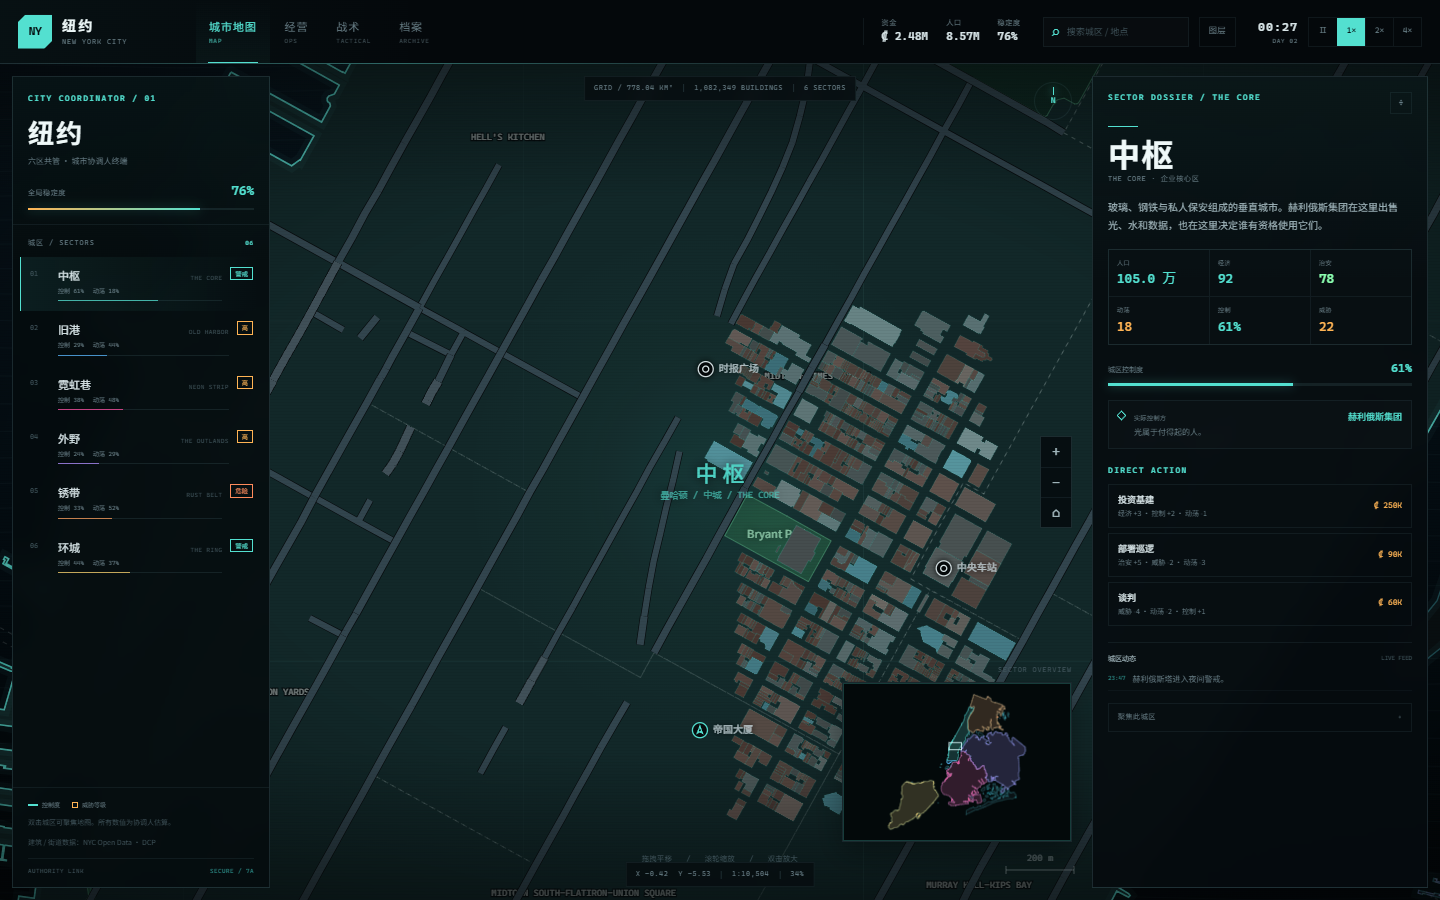
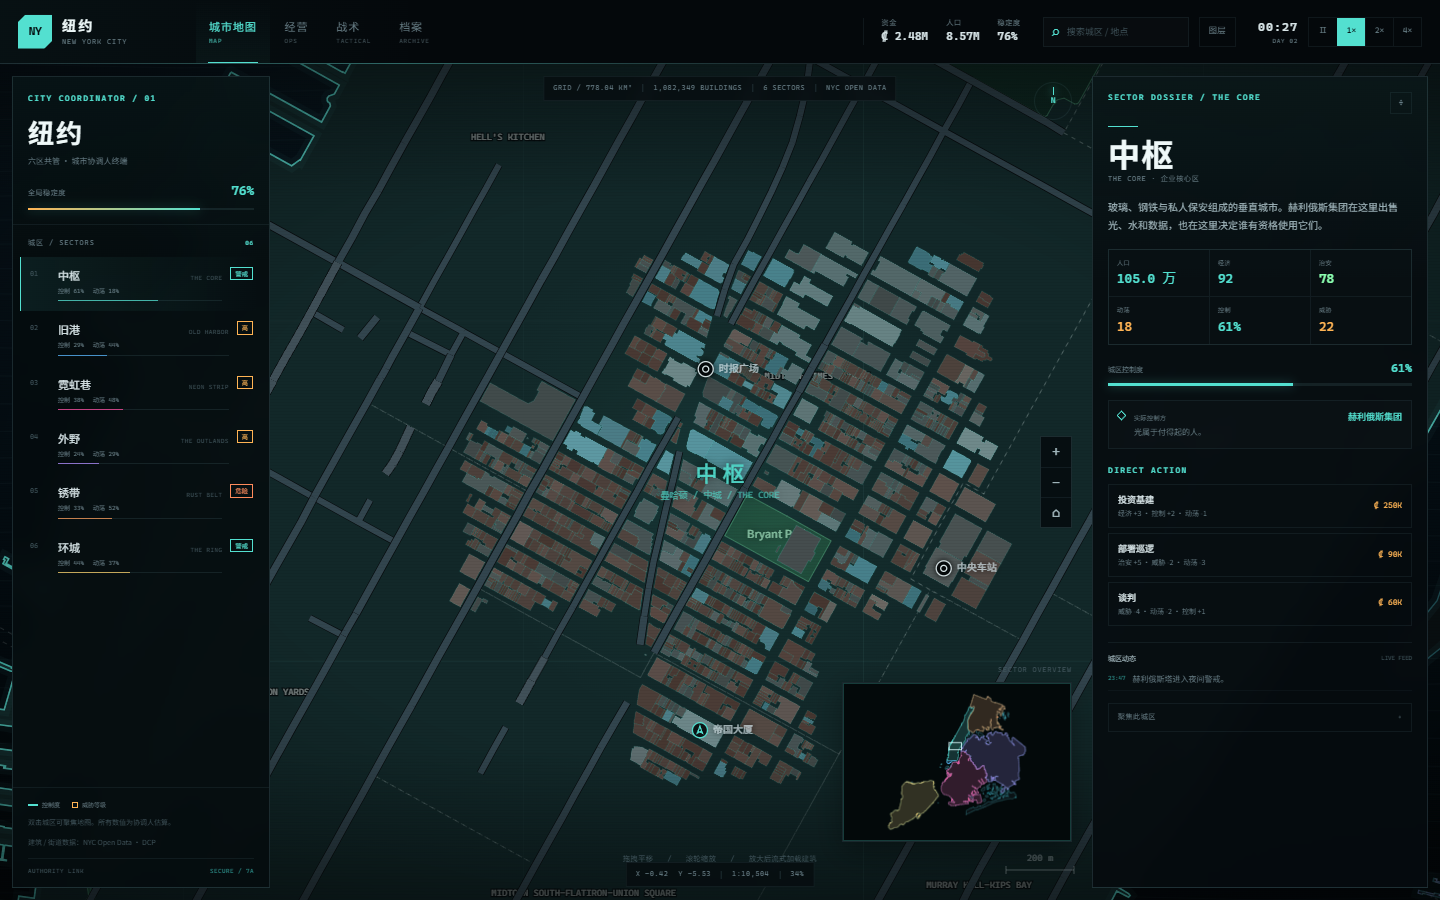
Upload final five-borough source

Changed region(s): [[0.3125, 0.2489, 0.7188, 0.9022], [0.5, 0.0933, 0.5625, 0.1244], [0.5938, 0.0933, 0.625, 0.1244]]

diff --git a/src/App.jsx b/src/App.jsx
@@ -401,7 +401,7 @@ export default function App() {
             <span className="boot-screen__mark">NY</span>
             <p className="hud-label">NEW YORK / URBAN OPERATIONS</p>
             <h1>纽约</h1>
-            <p>正在载入纽约开放数据 · {data.stats.buildings.toLocaleString('zh-CN')} 栋真实建筑</p>
+            <p>正在载入五区边界与社区数据 · {data.stats.buildings.toLocaleString('zh-CN')} 栋建筑按视口加载</p>
             <div className="boot-screen__bar"><i /></div>
             <div className="boot-screen__meta">
               <span>GRID {Math.round(WORLD.width / 100) / 10} × {Math.round(WORLD.height / 100) / 10} KM</span>

diff --git a/src/map/MapCanvas.jsx b/src/map/MapCanvas.jsx
@@ -243,7 +243,7 @@ const MapCanvas = forwardRef(function MapCanvas(
         }
       }
       candidates.sort((a, b) => a.distance - b.distance)
-      for (const candidate of candidates.slice(0, 5)) {
+      for (const candidate of candidates.slice(0, 8)) {
         streamRef.current.loading.add(candidate.key)
         fetchTile(candidate.tx, candidate.ty, controller.signal)
           .then((tile) => {
@@ -260,7 +260,7 @@ const MapCanvas = forwardRef(function MapCanvas(
       }
     }
 
-    const timer = window.setInterval(loadVisible, 500)
+    const timer = window.setInterval(loadVisible, 400)
     loadVisible()
     return () => {
       stopped = true

diff --git a/src/map/stream.js b/src/map/stream.js
@@ -2,7 +2,7 @@ import { WORLD } from '../data/city.js'
 import { normalizeStreamBuilding } from './generator.js'
 
 const BASE = 'https://a841-dotweb01.nyc.gov/arcgis/rest/services/GAZETTEER/NYCDOTBaseMap_Street/MapServer'
-export const TILE_SIZE = 700
+export const TILE_SIZE = 500
 
 export function tileKey(tx, ty) {
   return `${tx}:${ty}`

diff --git a/README.md b/README.md
@@ -20,7 +20,7 @@
 不再一次性加载整座城市的建筑：
 
 1. 五区边界、社区边界、主要道路、公园、地标先加载
-2. 地图缩放超过阈值后，按 **700m × 700m 瓦片**请求当前视口
+2. 地图缩放超过阈值后，按 **500m × 500m 瓦片**请求当前视口
 3. 每个瓦片同时拉取建筑轮廓和本地街道
 4. 内存缓存，最多保留 140 个瓦片
 5. 缩放/拖动时只补缺失瓦片，不重复请求
@@ -90,7 +90,7 @@ src/
 │  └─ nyc-district-meta.json
 ├─ map/
 │  ├─ generator.js         静态图层 + 建筑空间索引 + 流式建筑标准化
-│  ├─ stream.js            700m 瓦片请求与投影
+│  ├─ stream.js            500m 瓦片请求与投影
 │  ├─ renderer.js          Canvas 地图、真实多边形建筑、社区、街名
 │  └─ MapCanvas.jsx        相机 / 交互 / 视口流式加载
 └─ components/
